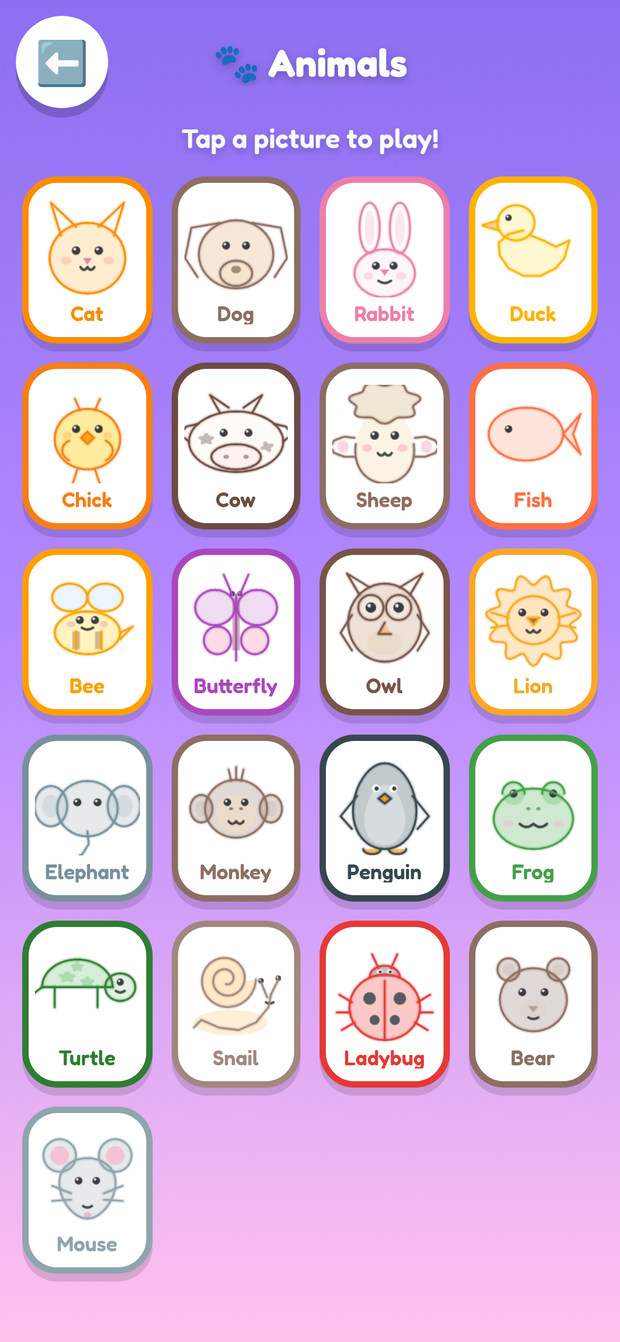
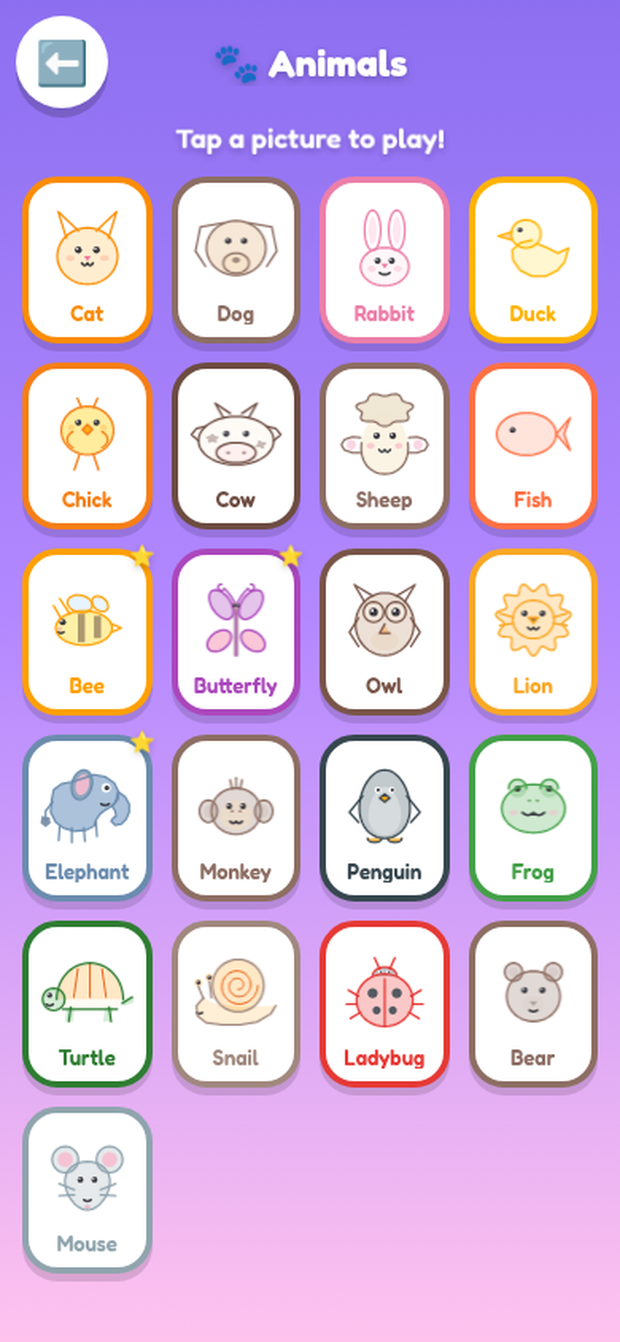
v1.2.2: elephant/bee/butterfly redesigned from reference art, lowercase g f y q rebuilt to print forms, CI branch trigger fix

diff --git a/js/data.js b/js/data.js
@@ -26,6 +26,20 @@
     return pts;
   }
 
+  // Elliptical arc rotated by rot degrees (y-down; rot > 0 leans the top of
+  // the ellipse to the right). Same angle rules as arc(). Used for swept
+  // bee/butterfly wings and the elephant's fan ear.
+  function tiltArc(cx, cy, rx, ry, rot, a0, a1, n) {
+    var r = (rot * Math.PI) / 180, pts = [];
+    for (var i = 0; i <= n; i++) {
+      var a = ((a0 + (a1 - a0) * i / n) * Math.PI) / 180;
+      var x = rx * Math.cos(a), y = ry * Math.sin(a);
+      pts.push([cx + x * Math.cos(r) - y * Math.sin(r),
+                cy + x * Math.sin(r) + y * Math.cos(r)]);
+    }
+    return pts;
+  }
+
   // Regular polygon with n vertices, first vertex at rot degrees.
   function polyPts(cx, cy, r, n, rot) {
     var pts = [];
@@ -174,9 +188,10 @@
     c: [arc(52, 66, 24, 21, 315, 45, 30)],
     d: [[[74, 14], [74, 86]], arc(74, 66, 26, 20, 270, 90, 32)],
     e: [arc(50, 66, 20, 20, 349, 22, 60), [[31, 62], [70, 62]]],
-    f: [arc(48, 27, 15, 10, 180, 268, 16), [[50, 15], [50, 86]], [[33, 51], [67, 51]]],
-    g: [arc(50, 66, 21, 20, 270, -90, 40),
-        arc(52, 71, 22, 25, -43, 120, 34)],
+    f: [arc(50, 28, 18, 13, 345, 270, 18), [[50, 15], [50, 86]], [[33, 51], [67, 51]]],
+    g: [arc(46, 66, 18, 20, 270, -90, 40),
+        [[68, 48], [74, 58], [74, 70], [70, 81], [63, 90], [54, 95.5],
+         [45, 96.5], [37, 95]]],
     h: [[[28, 14], [28, 86]], arc(51, 56, 23, 10, 180, 360, 24).concat([[74, 86]])],
     i: [[[50, 46], [50, 86]], [[50, 27], [50, 32]]],
     j: [[[62, 46], [62, 76]].concat(arc(50, 80, 12, 12, 0, 150, 16)), [[62, 27], [62, 32]]],
@@ -188,7 +203,7 @@
     n: [[[28, 46], [28, 86]], arc(51, 56, 23, 10, 180, 360, 24).concat([[74, 86]])],
     o: [arc(52, 66, 24, 21, 270, -90, 40)],
     p: [[[30, 46], [30, 96]], arc(30, 66, 26, 20, -90, 90, 32)],
-    q: [arc(48, 66, 22, 20, 270, -90, 38), [[69, 60], [69, 91], [76, 96]]],
+    q: [arc(50, 66, 20, 20, 270, -90, 40), [[70, 46], [70, 88], [77, 96]]],
     r: [[[30, 46], [30, 86]], [[30, 62], [44, 50], [56, 45]]],
     s: [[[69, 50], [54, 46], [42, 49], [36, 57], [40, 64], [52, 68],
          [63, 72], [69, 80], [64, 88], [50, 90], [38, 87]]],
@@ -197,7 +212,8 @@
     v: [[[26, 46], [50, 86], [74, 46]]],
     w: [[[18, 46], [34, 86], [50, 52], [66, 86], [82, 46]]],
     x: [[[28, 46], [72, 86]], [[72, 46], [28, 86]]],
-    y: [[[28, 46], [52, 86]], [[74, 46], [52, 86]], [[52, 86], [46, 90], [40, 96]]],
+    y: [[[28, 46], [50, 77], [72, 46]],
+        [[50, 77], [48, 84], [44, 91], [38, 95], [31, 96], [26, 94]]],
     z: [[[30, 46], [72, 46], [30, 86], [72, 86]]]
   };
 
@@ -397,37 +413,44 @@
                 [[74, 50], [88, 34], [82, 50], [88, 66], [74, 50]]] },
     { id: 'bee', name: 'Bee', emoji: '\uD83D\uDC1D', sound: 'buzz', color: '#FFA000',
       say: 'A buzzy bee! Can you draw the bee?',
-      // Yellow face zone on top (eyes + smile + rosy cheeks), dark stripes below.
-      fill: [{ c: '#FFE66D', a: 0.45, p: arc(50, 60, 26, 17, 270, 630, 40) },
-             { c: '#6D4C41', a: 0.35, p: [[38, 59], [44, 59], [44, 73], [38, 73]] },
-             { c: '#6D4C41', a: 0.35, p: [[56, 59], [62, 59], [62, 73], [56, 73]] },
-             { c: '#D7ECFF', a: 0.5, p: arc(36, 32, 14, 11, 270, 630, 28) },
-             { c: '#D7ECFF', a: 0.5, p: arc(64, 32, 14, 11, 270, 630, 28) },
-             { c: '#F48FB1', a: 0.4, p: arc(37, 53, 3.5, 2.5, 270, 630, 14) },
-             { c: '#F48FB1', a: 0.4, p: arc(63, 53, 3.5, 2.5, 270, 630, 14) }],
-      eyes: [[44, 50, 3.2], [56, 50, 3.2]],
-      mouth: [50, 56, 4.5, 3, 'arc'],
-      strokes: [arc(50, 60, 26, 17, 270, -90, 40),
-                [[41, 59], [41, 73]],
-                [[61, 59], [61, 73]],
-                arc(36, 32, 14, 11, 270, -90, 28),
-                arc(64, 32, 14, 11, 270, -90, 28),
-                [[76, 60], [86, 55], [76, 65]]] },
+      // classic side view flying left: the face sits on the HEAD end (left)
+      // so only ONE eye is visible — bee eyes live on the front of the head.
+      // Fat striped body, two swept-back wings, pointy stinger, antennae.
+      fill: [{ c: '#FFE66D', a: 0.6, p: arc(56, 60, 28, 17, 270, 630, 40) },
+             { c: '#5D4037', a: 0.5, p: [[50, 46], [57, 46], [57, 74], [50, 74]] },
+             { c: '#5D4037', a: 0.5, p: [[66, 48], [73, 48], [73, 70], [66, 70]] },
+             { c: '#D7ECFF', a: 0.6, p: tiltArc(52, 36, 12.5, 8.5, 12, 270, 630, 28) },
+             { c: '#D7ECFF', a: 0.5, p: tiltArc(72, 36, 9, 6.5, 40, 270, 630, 24) },
+             { c: '#F48FB1', a: 0.5, p: arc(32, 61, 2.5, 1.8, 270, 630, 12) }],
+      eyes: [[35, 54, 3.2]],
+      mouth: [33, 64, 3, 2, 'arc'],
+      strokes: [arc(56, 60, 28, 17, 270, -90, 40),
+                tiltArc(52, 36, 12.5, 8.5, 12, 270, -90, 28),
+                tiltArc(72, 36, 9, 6.5, 40, 270, -90, 24),
+                [[84, 56], [93, 60], [84, 64]],
+                [[33, 50], [26, 38]],
+                [[42, 46], [32, 31]]] },
     { id: 'butterfly', name: 'Butterfly', emoji: '\uD83E\uDD8B', sound: 'flutter', color: '#AB47BC',
       say: 'A butterfly! Can you draw the butterfly?',
-      fill: [{ c: '#CE93D8', p: arc(33, 40, 16, 14, 270, 630, 32) },
-             { c: '#CE93D8', p: arc(67, 40, 16, 14, 270, 630, 32) },
-             { c: '#F48FB1', p: arc(35, 66, 11, 11, 270, 630, 28) },
-             { c: '#F48FB1', p: arc(65, 66, 11, 11, 270, 630, 28) },
-             { c: '#795548', a: 0.4, p: [[47, 32], [53, 32], [53, 74], [47, 74]] }],
-      eyes: [[47, 29, 2], [53, 29, 2]],
-      strokes: [arc(33, 40, 16, 14, 270, -90, 32),
-                arc(67, 40, 16, 14, 270, -90, 32),
-                arc(35, 66, 11, 11, 270, -90, 28),
-                arc(65, 66, 11, 11, 270, -90, 28),
-                [[50, 30], [50, 82]],
-                [[47, 30], [40, 14]],
-                [[53, 30], [60, 14]]] },
+      // one-line-drawing style (user reference): two TALL upper wings
+      // sweeping up + two round lower wings, slim body + little head,
+      // antennae finishing in tight curls.
+      fill: [{ c: '#CE93D8', a: 0.55, p: tiltArc(35, 28, 16.5, 9.5, 55, 270, 630, 32) },
+             { c: '#CE93D8', a: 0.55, p: tiltArc(65, 28, 16.5, 9.5, -55, 270, 630, 32) },
+             { c: '#F48FB1', a: 0.5, p: tiltArc(33, 64, 13.5, 9, -35, 270, 630, 28) },
+             { c: '#F48FB1', a: 0.5, p: tiltArc(67, 64, 13.5, 9, 35, 270, 630, 28) },
+             { c: '#795548', a: 0.45, p: [[47.5, 33], [52.5, 33], [52.5, 79], [47.5, 79]] },
+             { c: '#795548', a: 0.5, p: arc(50, 30, 4.5, 4, 270, 630, 16) }],
+      eyes: [[47.5, 29, 1.8], [52.5, 29, 1.8]],
+      strokes: [tiltArc(35, 28, 16.5, 9.5, 55, 270, -90, 32),
+                tiltArc(65, 28, 16.5, 9.5, -55, 270, -90, 32),
+                tiltArc(33, 64, 13.5, 9, -35, 270, -90, 28),
+                tiltArc(67, 64, 13.5, 9, 35, 270, -90, 28),
+                [[50, 35], [50, 79]],
+                [[48.5, 26], [45, 20], [41, 15], [38, 12]].concat(
+                  arc(35, 11, 3.2, 3.2, 20, 275, 14)),
+                [[51.5, 26], [55, 20], [59, 15], [62, 12]].concat(
+                  arc(65, 11, 3.2, 3.2, 160, -95, 14))] },
     { id: 'owl', name: 'Owl', emoji: '\uD83E\uDD89', sound: 'hoot', color: '#795548',
       say: 'An owl! Can you draw the owl?',
       fill: [{ c: '#C8A284', p: arc(50, 52, 29, 31, 270, 630, 44) },
@@ -456,30 +479,43 @@
                 [[45, 48], [55, 48], [50, 54], [45, 48]],
                 [[30, 48], [16, 44]], [[30, 54], [16, 56]],
                 [[70, 48], [84, 44]], [[70, 54], [84, 56]]] },
-    { id: 'elephant', name: 'Elephant', emoji: '\uD83D\uDC18', sound: 'trumpet', color: '#78909C',
+    { id: 'elephant', name: 'Elephant', emoji: '\uD83D\uDC18', sound: 'trumpet', color: '#6B8CAE',
       say: 'An elephant! Can you draw the elephant?',
-      // full side view facing left: heavy rounded body, huge fan ear with
-      // pink inner, trunk curling down with an upturned tip, white tusk,
-      // two pillar legs, skinny tail (refs: cute cartoon elephant clipart)
-      fill: [{ c: '#B0BEC5', p: [[20, 34], [36, 26], [58, 26], [76, 33], [86, 48],
-                                 [85, 62], [75, 71], [56, 75], [38, 74], [26, 68],
-                                 [18, 52], [20, 34]] },
-             { c: '#90A4AE', p: [[30, 33], [19, 37], [15, 50], [20, 62], [33, 63],
-                                  [38, 50], [36, 37], [30, 33]] },
-             { c: '#F8BBD0', a: 0.8, p: [[29, 38], [22, 41], [20, 50], [24, 58],
-                                         [32, 58], [34, 49], [33, 41], [29, 38]] },
-             { c: '#B0BEC5', p: [[36, 71], [45, 71], [43, 89], [34, 89]] },
-             { c: '#B0BEC5', p: [[66, 71], [75, 71], [73, 89], [64, 89]] },
-             { c: '#FFFFFF', a: 0.95, p: [[19, 53], [25, 56], [21, 62], [15, 58]] }],
-      eyes: [[14, 46, 2.6]],
-      strokes: [[[20, 34], [36, 26], [58, 26], [76, 33], [86, 48], [85, 62],
-                 [75, 71], [56, 75], [38, 74], [26, 68], [18, 52], [20, 34]],
-                [[30, 33], [19, 37], [15, 50], [20, 62], [33, 63], [38, 50],
-                 [36, 37], [30, 33]],
-                [[16, 44], [9, 53], [7, 63], [12, 72], [21, 76], [27, 72]],
-                [[40, 72], [40, 89]],
-                [[70, 72], [70, 89]],
-                [[85, 46], [92, 58], [88, 68]]] },
+      // cute 3/4 view per the user's tutorial reference: ONE smooth body+head
+      // blob (no tangles), big fan ear with pink inner, ONE big shiny eye,
+      // trunk sweeping right and hooking UP, 4 stubby stroke legs with white
+      // toenails, skinny tail with a tuft.
+      fill: [{ c: '#A5BDD8', a: 0.92, p: [[14, 48], [16, 38], [24, 32], [34, 30],
+                                          [44, 27], [56, 23], [67, 25], [76, 31],
+                                          [80, 39], [80, 47], [74, 54], [67, 58],
+                                          [62, 62], [58, 68], [56, 74], [48, 78],
+                                          [36, 79], [26, 76], [18, 70], [13, 60]] },
+             { c: '#A5BDD8', a: 0.92, p: [[80, 40], [87, 45], [91, 52], [91, 60],
+                                          [88, 67], [83, 72], [77, 73], [73, 69],
+                                          [75, 66], [78, 64], [77, 59], [74, 54],
+                                          [77, 51]] },
+             { c: '#8FA5BC', a: 0.95, p: tiltArc(44, 33, 10, 15, 15, 270, 630, 32) },
+             { c: '#F8BBD0', a: 0.9, p: tiltArc(44.5, 33, 6.5, 10.5, 15, 270, 630, 28) },
+             { c: '#7B8FA6', a: 0.95, p: [[4, 64], [12, 65], [13, 71], [8, 75], [3, 71]] }],
+      decor: [{ p: arc(21.3, 87.5, 3, 2.2, 200, 340, 10), c: '#FFFFFF', w: 2.8 },
+              { p: arc(34.5, 89.5, 3, 2.2, 200, 340, 10), c: '#FFFFFF', w: 2.8 },
+              { p: arc(47.3, 88.5, 3, 2.2, 200, 340, 10), c: '#FFFFFF', w: 2.8 },
+              { p: arc(59.3, 83.5, 3, 2.2, 200, 340, 10), c: '#FFFFFF', w: 2.8 }],
+      eyes: [[68, 36, 4.6, 'w']],
+      mouth: [67, 52, 4, 2.5, 'arc'],
+      strokes: [[[14, 48], [16, 38], [24, 32], [34, 30], [44, 27], [56, 23],
+                 [67, 25], [76, 31], [80, 39], [80, 47], [74, 54], [67, 58],
+                 [62, 62], [58, 68], [56, 74], [48, 78], [36, 79], [26, 76],
+                 [18, 70], [13, 60], [14, 48]],
+                tiltArc(44, 33, 10, 15, 15, 270, -90, 32),
+                [[80, 40], [87, 45], [91, 52], [91, 60], [88, 67], [83, 72],
+                 [77, 73], [73, 69], [75, 66], [78, 64], [77, 59], [74, 54],
+                 [77, 51], [80, 40]],
+                [[22, 74], [21, 88]],
+                [[34, 76], [34, 90]],
+                [[46, 76], [47, 89]],
+                [[58, 70], [59, 84]],
+                [[15, 50], [8, 59], [8, 68]]] },
     { id: 'monkey', name: 'Monkey', emoji: '\uD83D\uDC35', sound: 'chatter', color: '#8D6E63',
       say: 'A monkey! Can you draw the monkey?',
       fill: [{ c: '#A1887F', p: arc(50, 52, 25, 23, 270, 630, 36) },

diff --git a/sw.js b/sw.js
@@ -2,7 +2,7 @@
  * Draw & Learn — sw.js
  * Cache-first offline shell. Bump CACHE_VERSION to force refresh.
  */
-var CACHE_VERSION = 'draw-learn-v1.2.1';
+var CACHE_VERSION = 'draw-learn-v1.2.2';
 var CORE = [
   './',
   './index.html',

diff --git a/README.md b/README.md
@@ -130,6 +130,9 @@ docs/                 banner + screenshots
 
 ## 📝 Changelog
 
+**v1.2.2** — *reference-art pass:* 🐘 **Elephant redesigned from the tutorial reference** — a cute 3/4 view with one smooth body+head outline, a big fan ear with pink inner, one big shiny anime eye, a thick J-hook trunk sweeping right and curling UP, four stubby legs with white toenails and a tufted tail. 🐝 **Bee goes side-view** — bee eyes sit on the *front* of the head, so the bee is now a proper profile with exactly ONE eye on the head end, a fat striped body, two swept-back wings, forward antennae and a pointy stinger. 🦋 **Butterfly redrawn in one-line style** — two tall upper wings sweeping up, two round lower wings angling down, a slim body with a little head, and antennae finishing in tight curls. 🔡 **Lowercase g, f, y and q rebuilt to true print forms** — the g is a bowl + clear fishhook tail hanging below the baseline, the f's top hook now curves right (it read as a 7 before), the y's arms meet above the baseline with a long descender tail, and the q's tail drops straight from the x-height with a rightward kick — all matching how the game already draws a and q.
+
+
 **v1.2.1** — *polish pass:* 🐢 **Turtle, snail and elephant redesigned** from cartoon reference art — the turtle now has a big domed shell with scute lines and a cream rim, the snail got a huge spiral shell over a long slug body with ball-tipped eyestalks, and the elephant is a full side view with a giant fan ear, curled trunk, tusk and pillar legs. 🍌 **Banana and car redrawn** — a thick yellow crescent with a brown stem, and a classic side-view sedan with chunky wheels, hubs and a headlight. 🔡 **Lowercase letterforms fixed** — e, f, g, p, q and y redesigned to proper print shapes (a real hook on the f, a left-curling fishhook tail on the g, a rightward kick on the q, the y's v meets exactly on the baseline). 🖼 **Thumbnail clipping fixed** — picker cards used to cut off descenders (q read as o, y as v); every thumbnail now auto-fits its whole glyph. ⭐ **Stars pop while you draw** — a 3-slot star tray at the top of the canvas fills at 80 / 90 / 100% instead of waiting for the Done tap. 🏠 The home screen footer was removed for a cleaner look.
 
 
